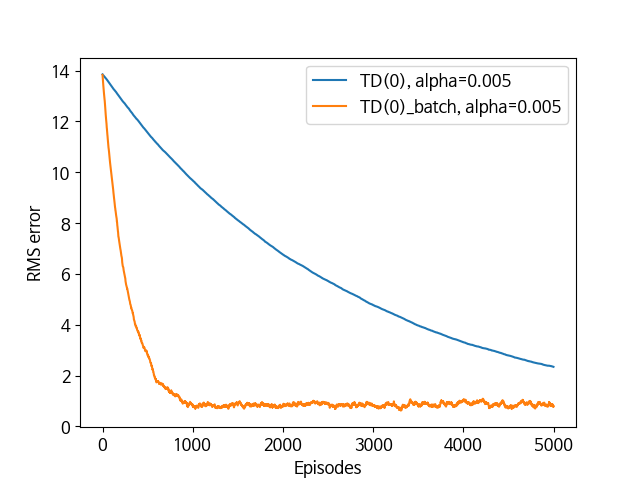
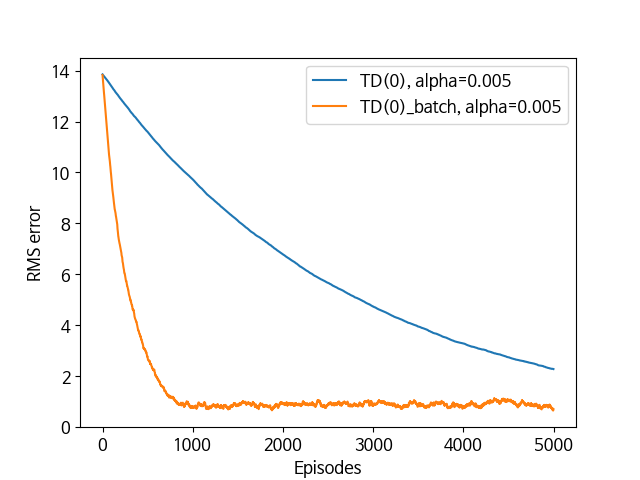
...

diff --git a/basic2/practice_2/grid_world_td_batch_comparison.py b/basic2/practice_2/grid_world_td_batch_comparison.py
@@ -1,8 +1,6 @@
 import random
-
 import numpy as np
 from basic.practice_1.gridworld import GridWorld
-from utils.util import draw_grid_world_state_values_image
 import matplotlib.pyplot as plt
 
 GRID_HEIGHT = 4
@@ -86,7 +84,7 @@ def temporal_difference(env, policy, state_values, alpha, gamma=1.0):
 # @values: 현재의 상태 가치
 # @alpha: 스텝 사이즈
 # @batch: 배치 업데이트 유무
-def temporal_difference_batch(env, policy, state_values, alpha=0.1, gamma=1.0):
+def temporal_difference_batch(env, policy, state_values, alpha=0.1, gamma=1.0, num_batch_updates=10):
     env.reset()
 
     initial_state = get_exploring_start_state()
@@ -105,7 +103,7 @@ def temporal_difference_batch(env, policy, state_values, alpha=0.1, gamma=1.0):
 
         state = next_state
 
-    for i in range(10):
+    for i in range(num_batch_updates):
         for sample in batch_list:
             state = sample[0]
             next_state = sample[2]
@@ -118,7 +116,7 @@ def temporal_difference_batch(env, policy, state_values, alpha=0.1, gamma=1.0):
                 state_values[state] += alpha * (reward + gamma * state_values[next_state] - state_values[state])
 
 
-# @method: 'TD(0)' 또는 'MC'
+# @method: 'TD(0)' 또는 'TD(0)_batch'
 def batch_updating(env, method, episodes, alpha):
     policy = generate_initial_random_policy(env)
 
@@ -134,7 +132,7 @@ def batch_updating(env, method, episodes, alpha):
             if method == 'TD(0)':
                 temporal_difference(env, policy, state_values, alpha=alpha)
             else:
-                temporal_difference_batch(env, policy, state_values, alpha=alpha)
+                temporal_difference_batch(env, policy, state_values, alpha=alpha, num_batch_updates=10)
             errors.append(np.sqrt(np.sum(np.power(TRUE_VALUES - state_values, 2)) / 25))
         total_errors += np.asarray(errors)
         print("method: {0}, run: {1}".format(method, run))
@@ -169,4 +167,4 @@ if __name__ == '__main__':
         terminal_reward=-1.0,
         outward_reward=-1.0
     )
-    mc_td_batch_comparison(env, alpha=0.05)
+    mc_td_batch_comparison(env, alpha=0.005)

diff --git a/basic2/practice_2/grid_world_td_learning.py b/basic2/practice_2/grid_world_td_learning.py
@@ -1,5 +1,4 @@
 import random
-
 import numpy as np
 from basic.practice_1.gridworld import GridWorld
 from utils.util import draw_grid_world_state_values_image
@@ -46,15 +45,12 @@ def get_exploring_start_state():
 
 # @values: 현재의 상태 가치
 # @alpha: 스텝 사이즈
-# @batch: 배치 업데이트 유무
-def temporal_difference(env, policy, state_values, alpha=0.1, batch=False):
+def temporal_difference(env, policy, state_values, alpha=0.1):
     env.reset()
 
     initial_state = get_exploring_start_state()
     env.moveto(initial_state)
 
-    trajectory = [env.current_state]
-    rewards = [0]
     done = False
     state = env.current_state
     while not done:
@@ -62,23 +58,14 @@ def temporal_difference(env, policy, state_values, alpha=0.1, batch=False):
         action = np.random.choice(actions, size=1, p=prob)[0]
         next_state, reward, done, _ = env.step(action)
 
-        # TD 갱신 수행
-        if not batch:
-            if done:
-                state_values[state] += alpha * (reward - state_values[state])
-            else:
-                state_values[state] += alpha * (reward + state_values[next_state] - state_values[state])
+        if done:
+            state_values[state] += alpha * (reward - state_values[state])
+        else:
+            state_values[state] += alpha * (reward + state_values[next_state] - state_values[state])
 
         state = next_state
 
-        trajectory.append(state)
-        rewards.append(reward)
 
-    if batch:
-        return trajectory, rewards
-
-
-# 실전 연습의 왼쪽 그래프
 def compute_state_values(env, alpha):
     policy = generate_initial_random_policy(env)
 
